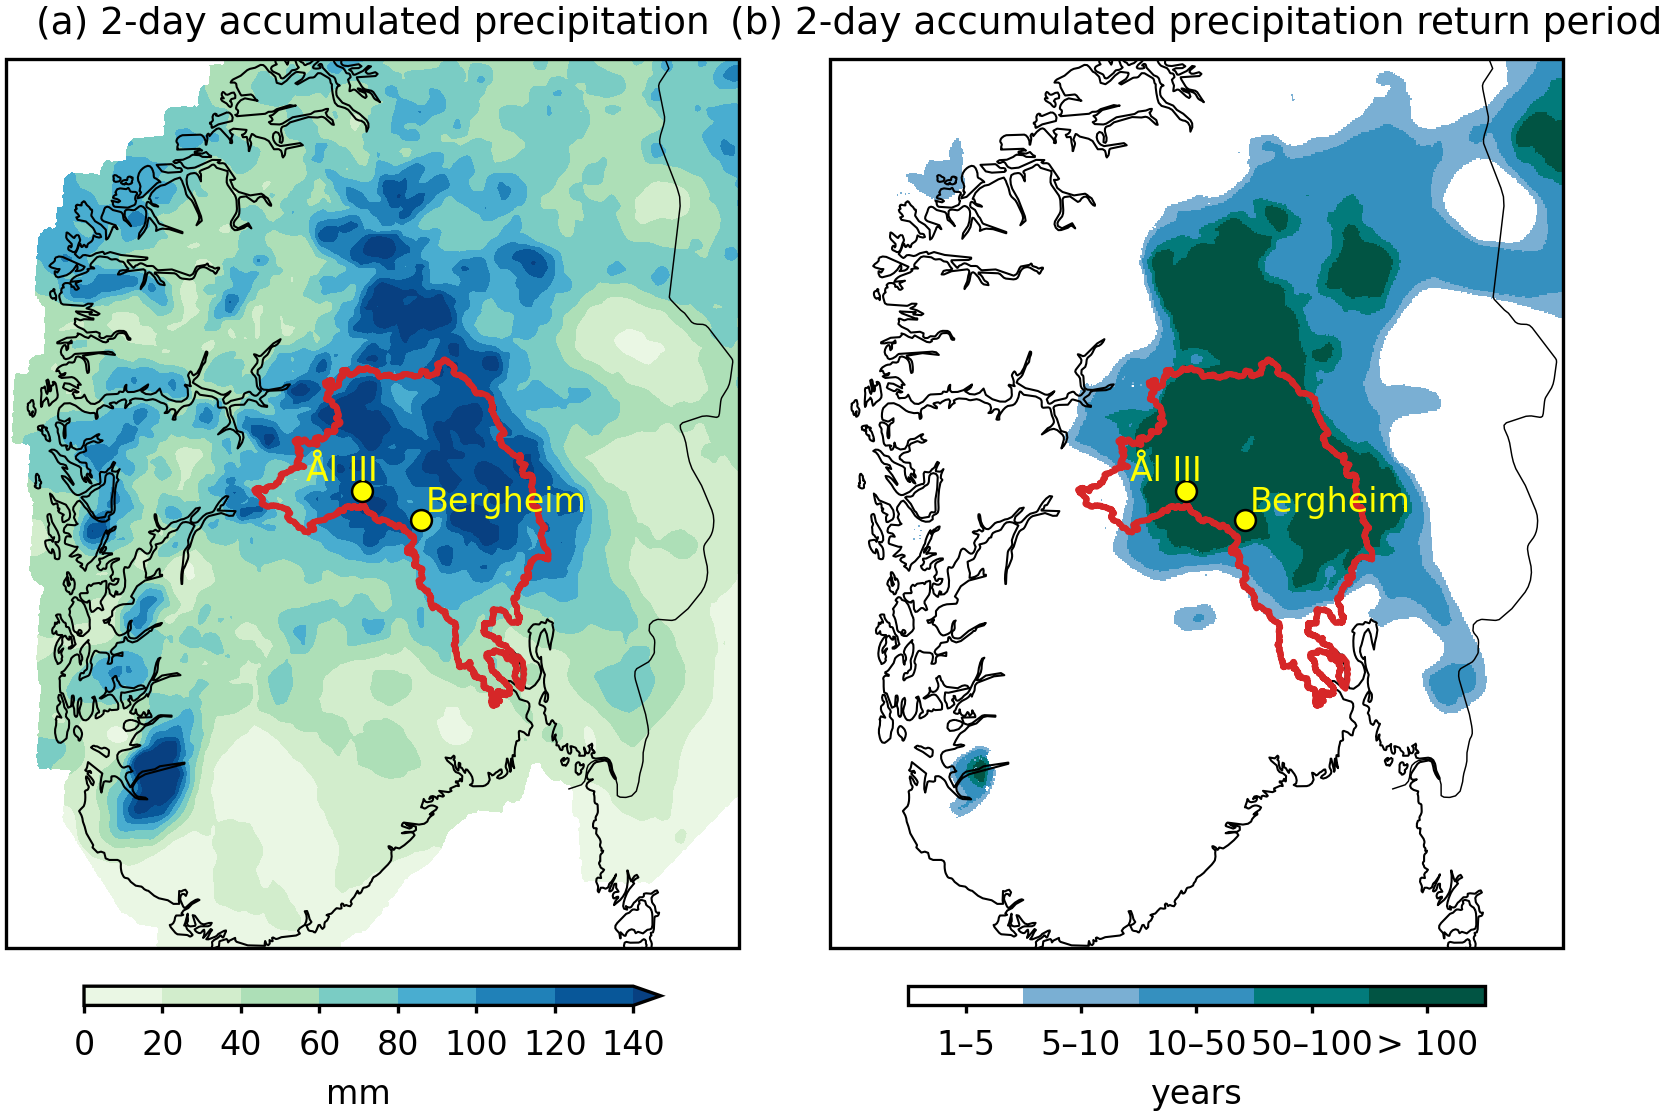
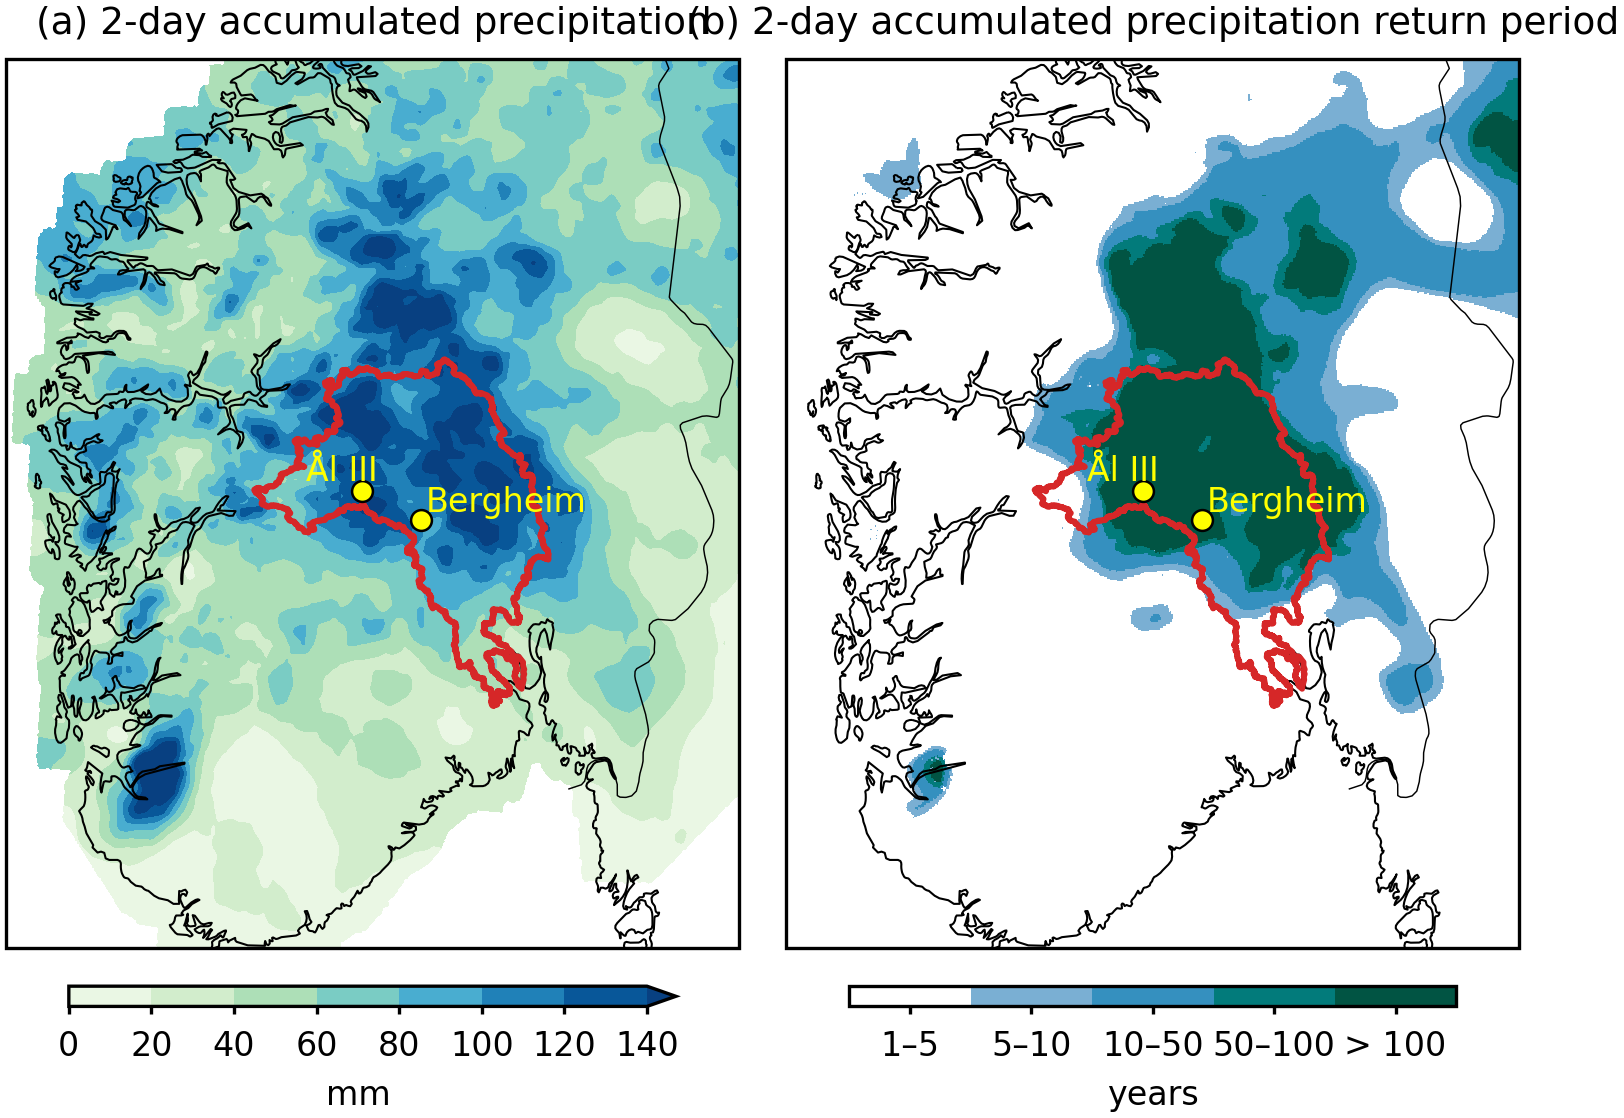
update

diff --git a/code/plot/paper_figs/temp.py b/code/plot/paper_figs/temp.py
@@ -171,7 +171,7 @@ def make_two_map_axes(central_lon=10.0, central_lat=62.0, extent=None):
     )
 
     # Tight spacing between panels
-    fig.subplots_adjust(wspace=0.0)
+    fig.subplots_adjust(wspace=-0.1)
     
     for ax in axes:
         ax.coastlines(resolution="10m", linewidth=0.5)
